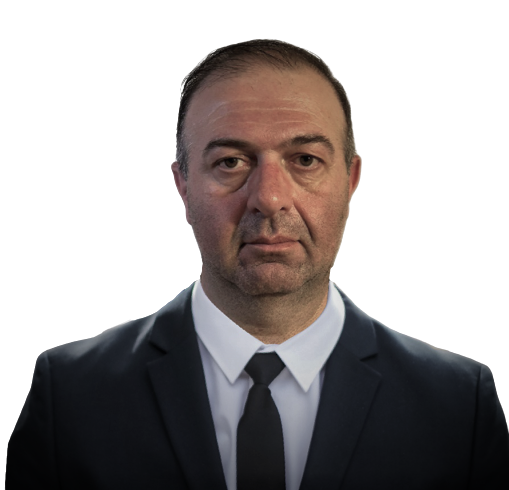
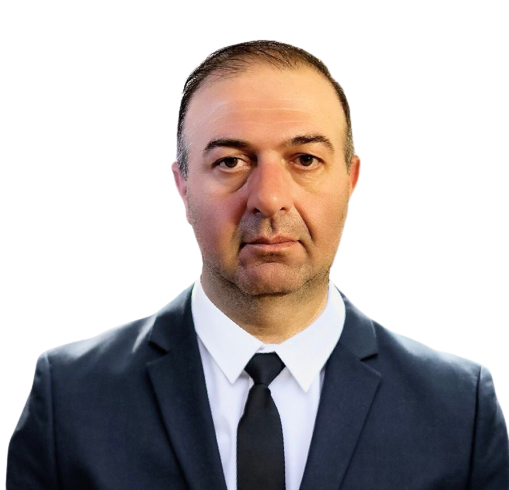
finished geo-pat

diff --git a/script/script.js b/script/script.js
@@ -5,20 +5,19 @@ const test = document.querySelector(".second");
 const btns = document.querySelectorAll(".btns");
 const main = document.querySelector(".main");
 
-
 const backdrop = document.querySelector(".backdrop");
 const serviceCard = document.querySelectorAll(".service__card");
 const xbtn = document.querySelector(".bx-x");
 const contact = document.querySelector(".contact");
 
 const tabs = document.querySelectorAll(".services__tab");
-const tabsContainer = document.querySelector(".services__tab-container");
+const tabsContainer = document.querySelectorAll(".services__tab-container");
 const tabsContent = document.querySelectorAll(".services__content");
 
 const faqItems = document.querySelectorAll(".faq__accordion-item");
 
-const contentGeo = document.querySelector('.content-geo');
-const contentEng = document.querySelector('.content-eng');
+const contentGeo = document.querySelector(".content-geo");
+const contentEng = document.querySelector(".content-eng");
 
 //listeners
 
@@ -44,10 +43,10 @@ menu.addEventListener("click", () => {
 });
 
 //services section  main
-if (tabsContainer) {
-  tabsContainer.addEventListener("click", function (e) {
-    const clicked = e.target.closest(".services__tab");
 
+tabsContainer.forEach((t) =>
+  t.addEventListener("click", function (e) {
+    const clicked = e.target.closest(".services__tab");
     if (!clicked) return;
 
     tabs.forEach((t) => t.classList.remove("services__tab--active"));
@@ -58,8 +57,28 @@ if (tabsContainer) {
     document
       .querySelector(`.services__content--${clicked.dataset.tab}`)
       .classList.add("services__content--active");
-  });
-}
+
+    document
+      .querySelector(`.services__content--${clicked.dataset.tab}-eng`)
+      .classList.add("services__content--active");
+  })
+);
+
+//   tabsContainer.addEventListener("click", function (e) {
+//     const clicked = e.target.closest(".services__tab");
+
+//     if (!clicked) return;
+
+//     tabs.forEach((t) => t.classList.remove("services__tab--active"));
+//     tabsContent.forEach((c) => c.classList.remove("services__content--active"));
+
+//     clicked.classList.add("services__tab--active");
+
+//     document
+//       .querySelector(`.services__content--${clicked.dataset.tab}`)
+//       .classList.add("services__content--active");
+//   });
+// }
 
 // our team functionality
 
@@ -81,4 +100,3 @@ xbtn.addEventListener("click", function () {
   teamModal.style.visibility = "hidden";
   teamBackdrop.style.visibility = "hidden";
 });
-

diff --git a/team.html b/team.html
@@ -14,7 +14,10 @@
         rel="stylesheet"
       />
 
-      <link rel="stylesheet" href="/node_modules/dejavu-sans-bold/css/dejavu-sans-bold.min.css">
+      <link
+        rel="stylesheet"
+        href="/node_modules/dejavu-sans-bold/css/dejavu-sans-bold.min.css"
+      />
 
       <link rel="stylesheet" href="./style.css" />
       <title>Geo Pat • ჯეო პატი</title>
@@ -194,7 +197,7 @@
               </h1>
               <div class="team__card">
                 <img
-                  src="./imgs/roini_1_800x600.png"
+                  src="./imgs/roini.png"
                   alt="roin migriauli"
                   class="team__img roini"
                 />
@@ -240,7 +243,7 @@
                 <img
                   src="./imgs/zaza.png"
                   alt="nugzar qsovreli"
-                  class="team__img roini"
+                  class="team__img zaza"
                 />
 
                 <p class="decription">
@@ -285,7 +288,7 @@
               </h1>
               <div class="team__card">
                 <img
-                  src="./imgs/roini_1_800x600.png"
+                  src="./imgs/roini.png"
                   alt="roin migriauli"
                   class="team__img roini"
                 />
@@ -330,7 +333,7 @@
                 <img
                   src="./imgs/zaza.png"
                   alt="nugzar qsovreli"
-                  class="team__img roini"
+                  class="team__img zaza"
                 />
 
                 <p class="decription">

diff --git a/index.html b/index.html
@@ -767,7 +767,7 @@
          
           </div>
           <div
-            class="services__content services__content--1 services__content--active"
+            class="services__content services__content--1-eng services__content--active"
           >
             <div class="services__icon services__icon--1">
               <svg
@@ -931,7 +931,7 @@
           
           </div>
       
-          <div class="services__content services__content--2">
+          <div class="services__content services__content--2-eng">
             <div class="services__icon services__icon--2">
               <svg
                 width="50px"
@@ -969,7 +969,7 @@
       
         
           </div>
-          <div class="services__content services__content--3">
+          <div class="services__content services__content--3-eng">
             <div class="services__icon services__icon--3">
               <svg
                 width="50px"
@@ -1037,7 +1037,7 @@
           
           </div>
       
-          <div class="services__content services__content--4">
+          <div class="services__content services__content--4-eng">
             <div class="services__icon services__icon--4">
               <svg
                 width="50px"

diff --git a/style.css b/style.css
@@ -722,18 +722,17 @@ a:active {
 }
 
 .roini {
-  width: 20rem;
-  height: 23rem;
-  left: 18%;
-}
-
-.dato {
   width: 25rem;
-  height: 23rem;
+  height: 28rem;
   left: 8%;
 }
 
-
+.dato,
+.zaza {
+  width: 25rem;
+  height: 22rem;
+  left: 8%;
+}
 
 .modal-backdrop {
   position: fixed;
@@ -1143,13 +1142,14 @@ button[type="submit"]:hover {
 
   .roini {
     width: 25rem;
-    height: 28rem;
+    height: 33rem;
     left: 20%;
   }
 
-  .dato {
+  .dato,
+  .zaza {
     width: 30rem;
-    height: 28rem;
+    height: 26rem;
     left: 12%;
   }
 
@@ -1275,7 +1275,6 @@ button[type="submit"]:hover {
     top: 50%;
     max-width: 80%;
     width: 80rem;
-
   }
 
   .divider {
@@ -1283,7 +1282,6 @@ button[type="submit"]:hover {
   }
 
   .contact__info {
-
     height: 40rem;
     background-color: #192333;
     border-radius: 1rem;
@@ -1466,11 +1464,12 @@ button[type="submit"]:hover {
 
   .roini {
     width: 32rem;
-    height: 32rem;
+    height: 39rem;
     left: 20%;
   }
 
-  .dato {
+  .dato,
+  .zaza {
     width: 37rem;
     height: 31rem;
     left: 12%;
